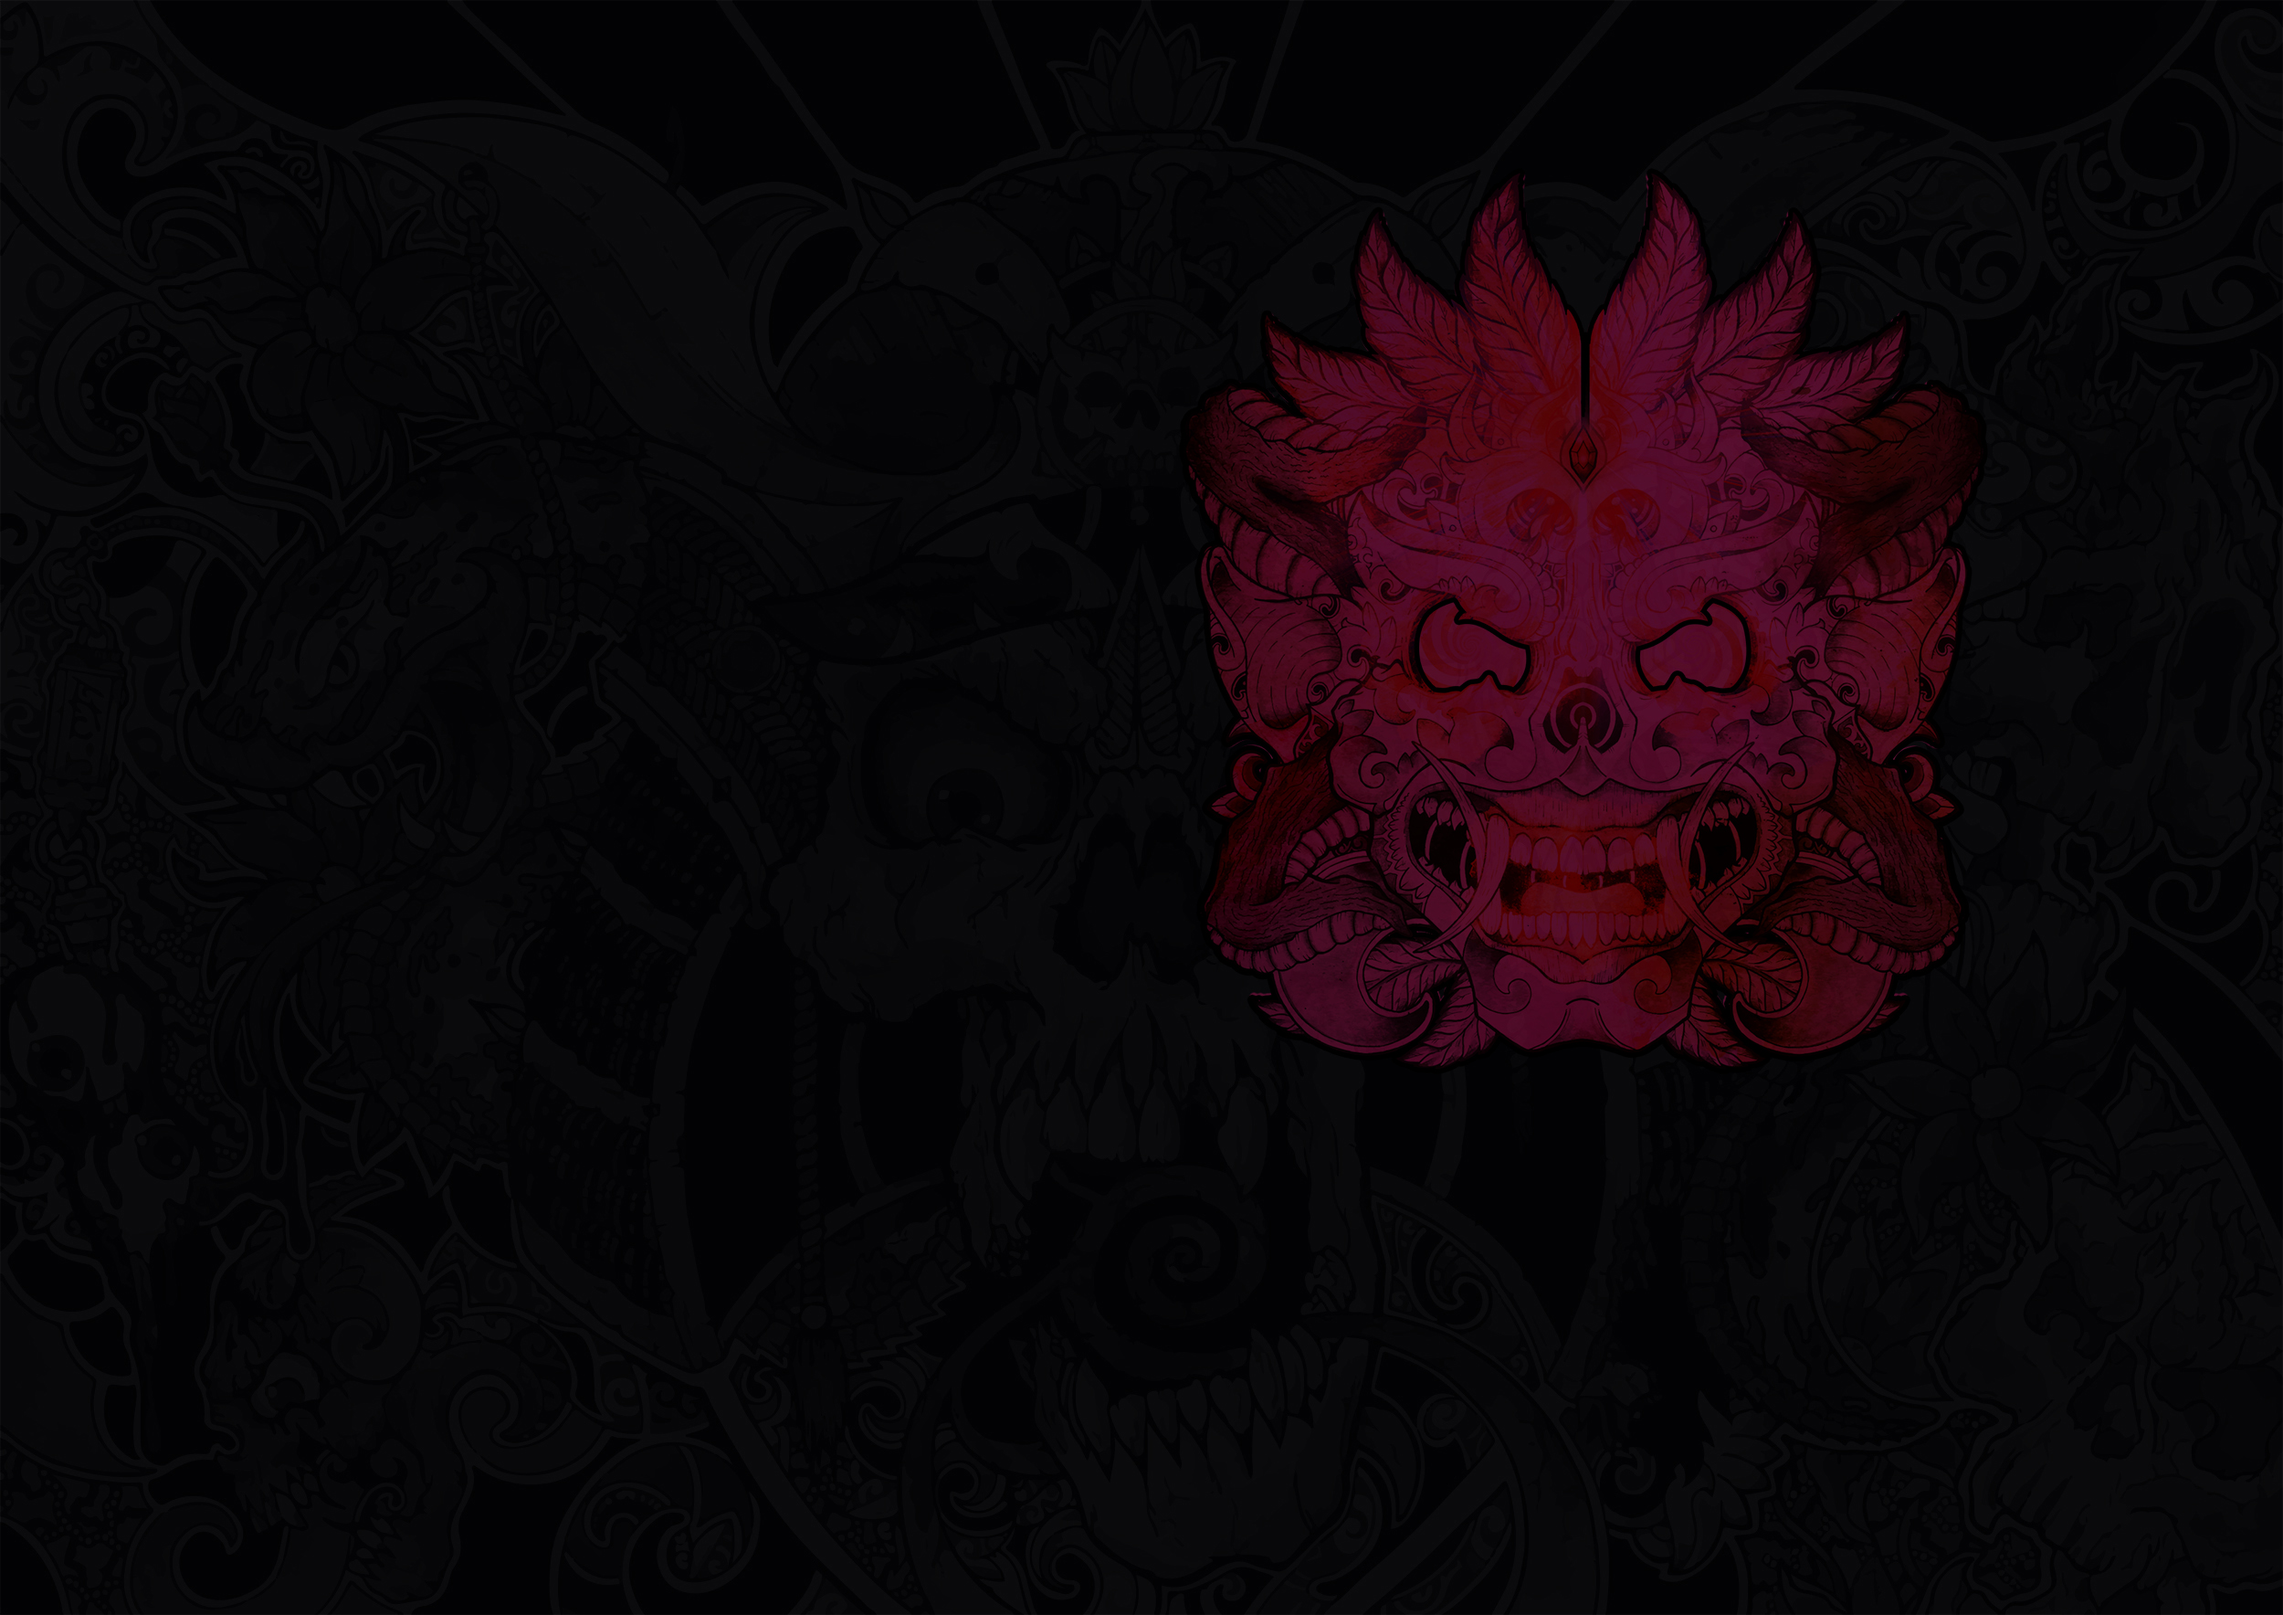
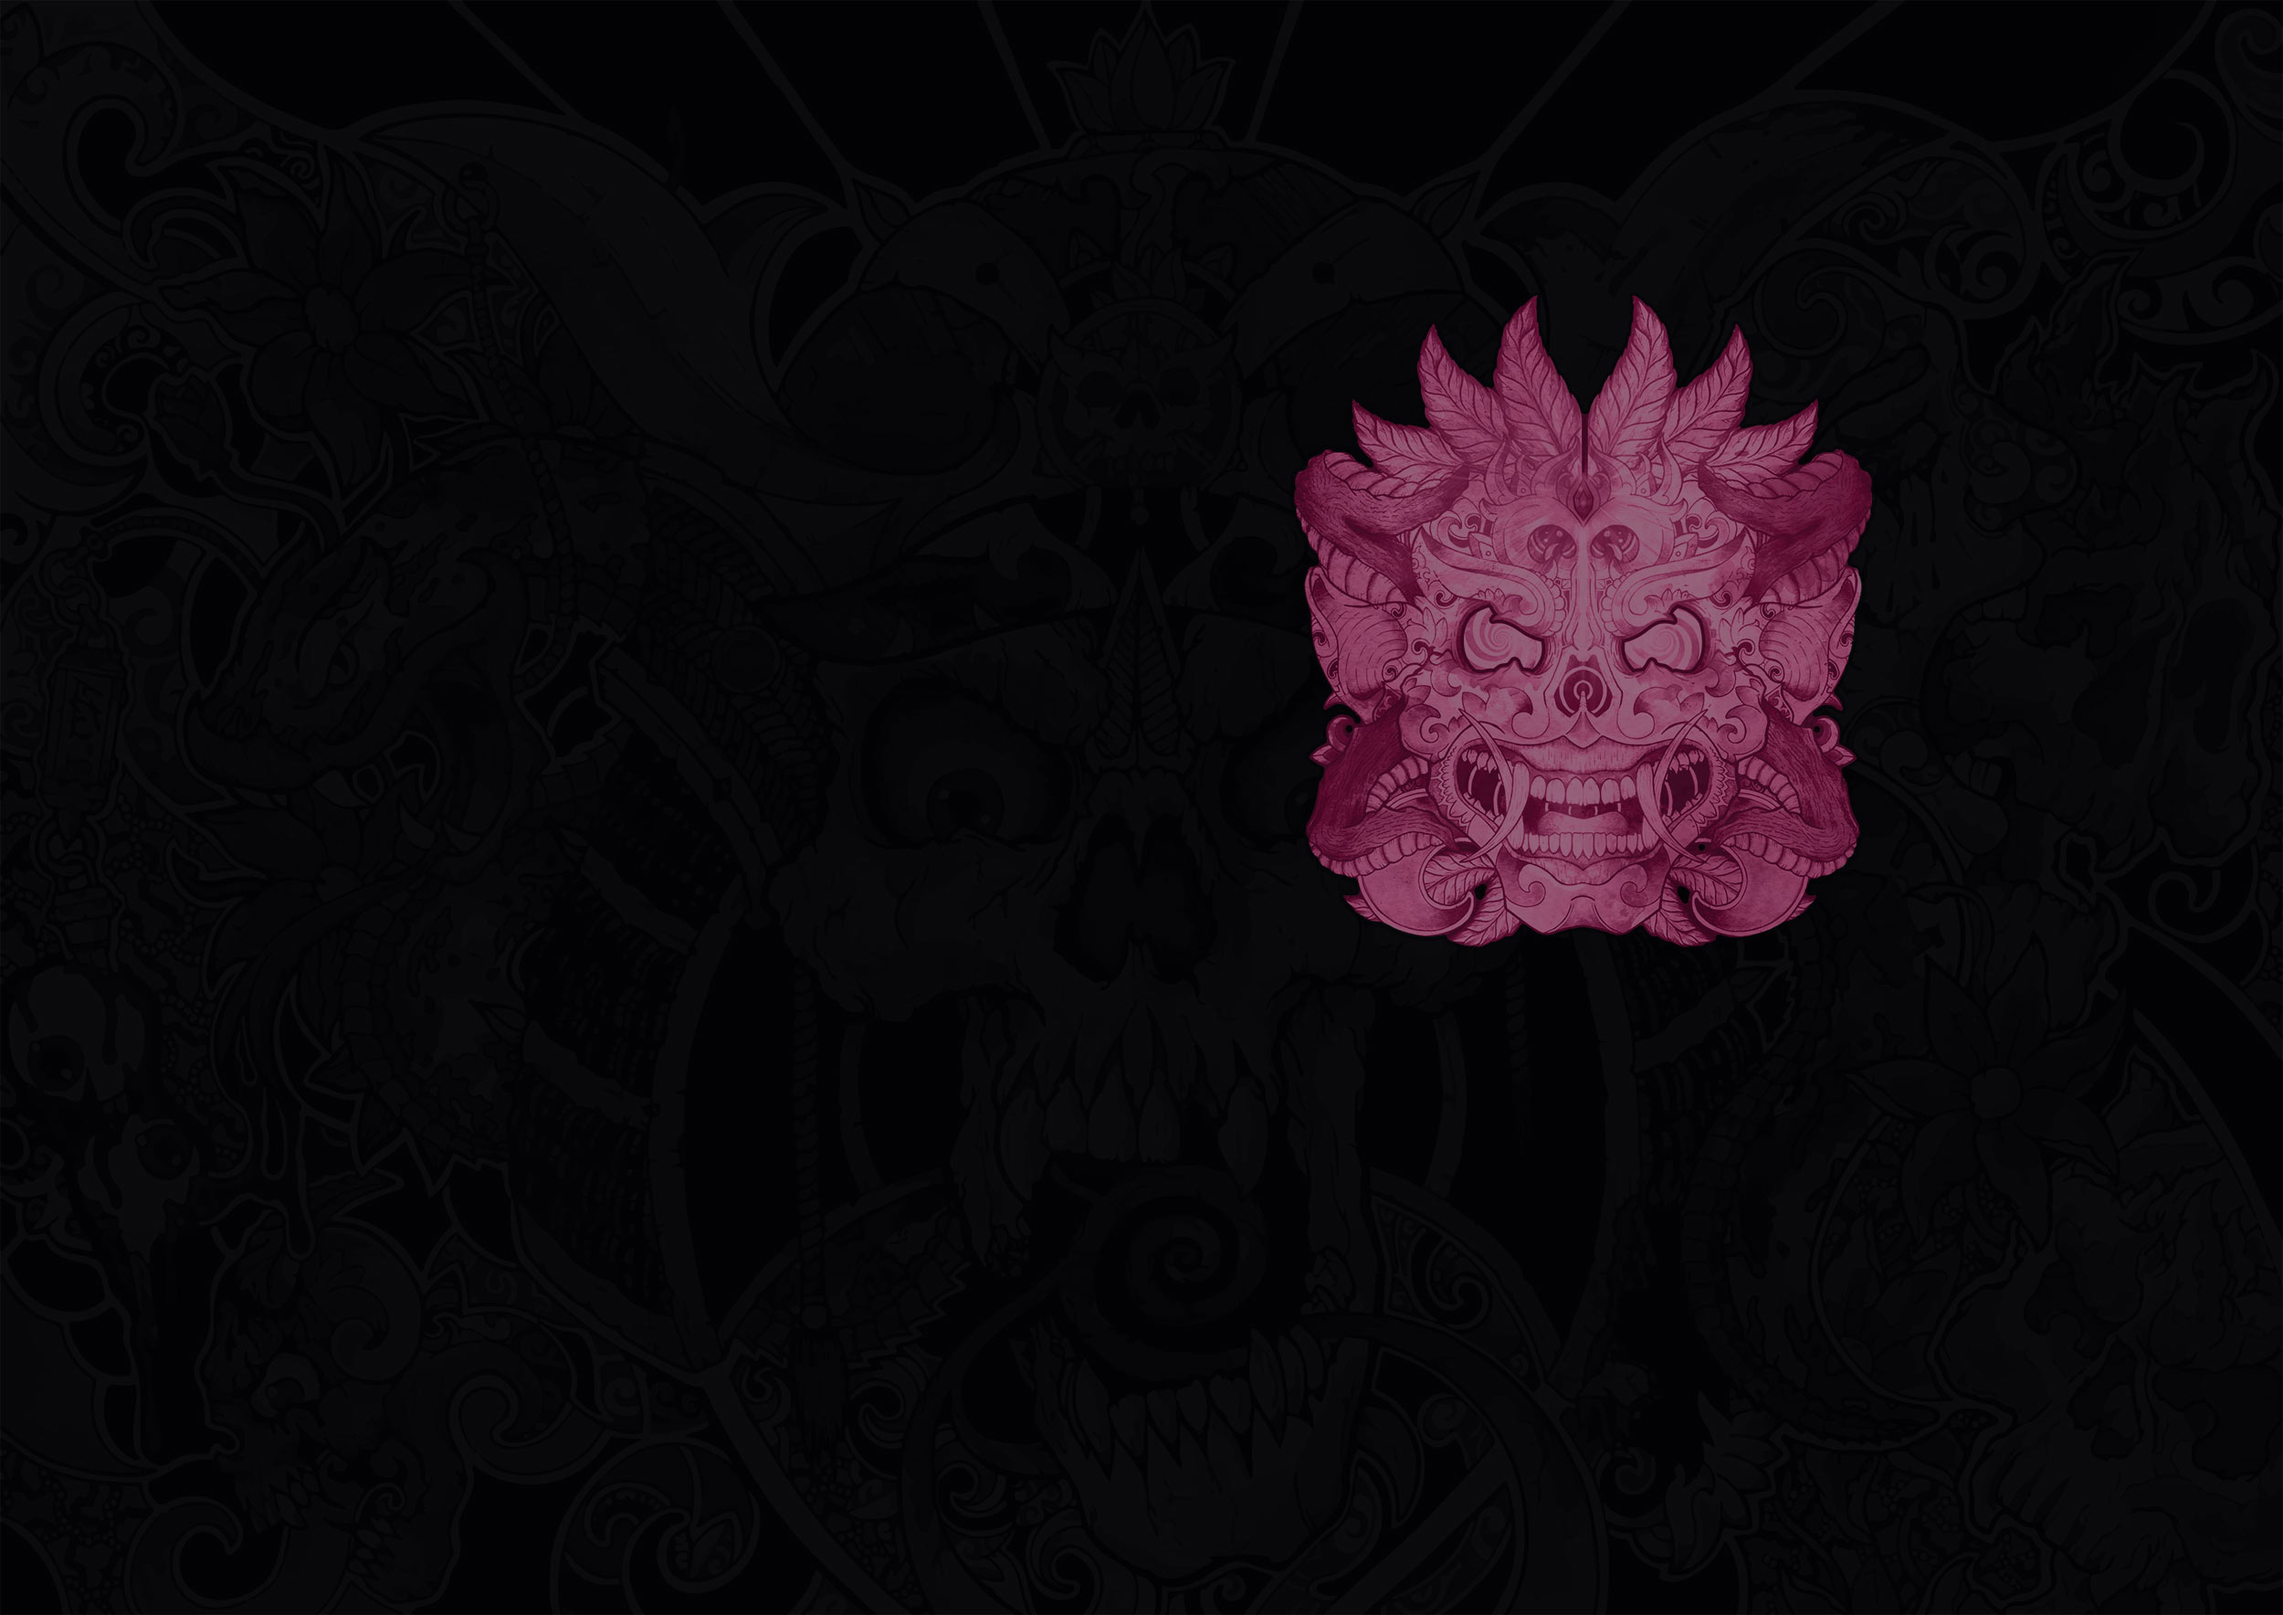
response embed video

Changed region(s): [[0.5304, 0.1244, 0.8736, 0.6533]]

diff --git a/src/components/Product.js b/src/components/Product.js
@@ -89,15 +89,16 @@ const Product = (props) => {
         key={item.src}
         className="caroussel-item"
       >
-      <div className="pl-md-5 embed-responsive embed-responsive-1by1">
+      <div className="embed-responsive embed-responsive-1by1">
         {item.format === 'image' 
         
-          ? <img className='embed-responsive-item media-size' src={media[item.idx]} alt={item.altText} />
-          : <video className='sm landing-video embed-responsive-item' autoPlay loop muted>
+          ? <img className='embed-responsive-item' src={media[item.idx]} alt={item.altText} />
+          : <video className='embed-responsive-item' autoPlay loop muted>
               <source src={media[item.idx]} type='video/mp4' />
             </video>
         }
         </div>
+
         <CarouselCaption/>
       </CarouselItem>
     );
@@ -106,7 +107,7 @@ const Product = (props) => {
     <section ref={ref} className={"section component-transition section-l " + visible}>
       <Container>
       <Row>
-      <Col>
+      <Col md="6">
         <Carousel
           activeIndex={activeIndex}
           next={next}
@@ -115,7 +116,7 @@ const Product = (props) => {
           {slides}
         </Carousel>
       </Col>
-      <Col>
+      <Col md="6">
       <div className="pl-md-3">
         <h2 className="text-magenta display-3">
           What do i get, when i buy an <span className="font-weight-bold">NFT</span> from <span className="font-weight-bold">BrainXRain</span>

diff --git a/src/components/Welcome.js b/src/components/Welcome.js
@@ -7,7 +7,7 @@ import {
     Button,
   } from "reactstrap";
 import opening from '../assets/videos/opening.mp4';
-
+import ReactPlayer from 'react-player'
 const Welcome = (props) => {
     
     const handleClick = (e) => {
@@ -20,13 +20,17 @@ const Welcome = (props) => {
         <Container>
                 <Row className="row-grid justify-content">
                 <Col className="mt-3" md="6">
-                    <div className="pl-md-5 embed-responsive embed-responsive-16by9">
-                    <video className='sm landing-video embed-responsive-item' autoPlay loop muted>
-                    <source src={opening} type='video/mp4' />
-                    </video>
-                    </div>
-                </Col>
+                <div className="pl-md-5 embed-responsive embed-responsive-16by9">
+                        <ReactPlayer
+                className='react-player fixed-bottom embed-responsive-item'
+                url={opening}
+                width='100%'
+                height='100%'
+                controls = {true}
 
+                />
+                </div>
+                 </Col>
                 <Col className="col-7" md="5">
                     <div className="pl-md-8 mt-5">
                     <h2 className="text-magenta display-3">

diff --git a/src/assets/css/styles.css b/src/assets/css/styles.css
@@ -71,9 +71,9 @@ body {
   font-size: 0.875rem;
   font-weight: 400;
   line-height: 1.5;
-  color: #525f7f;
+
   text-align: left;
-  background-color: #171941; }
+  background-color: #212125; }
 
 [tabindex="-1"]:focus {
   outline: 0 !important; }
